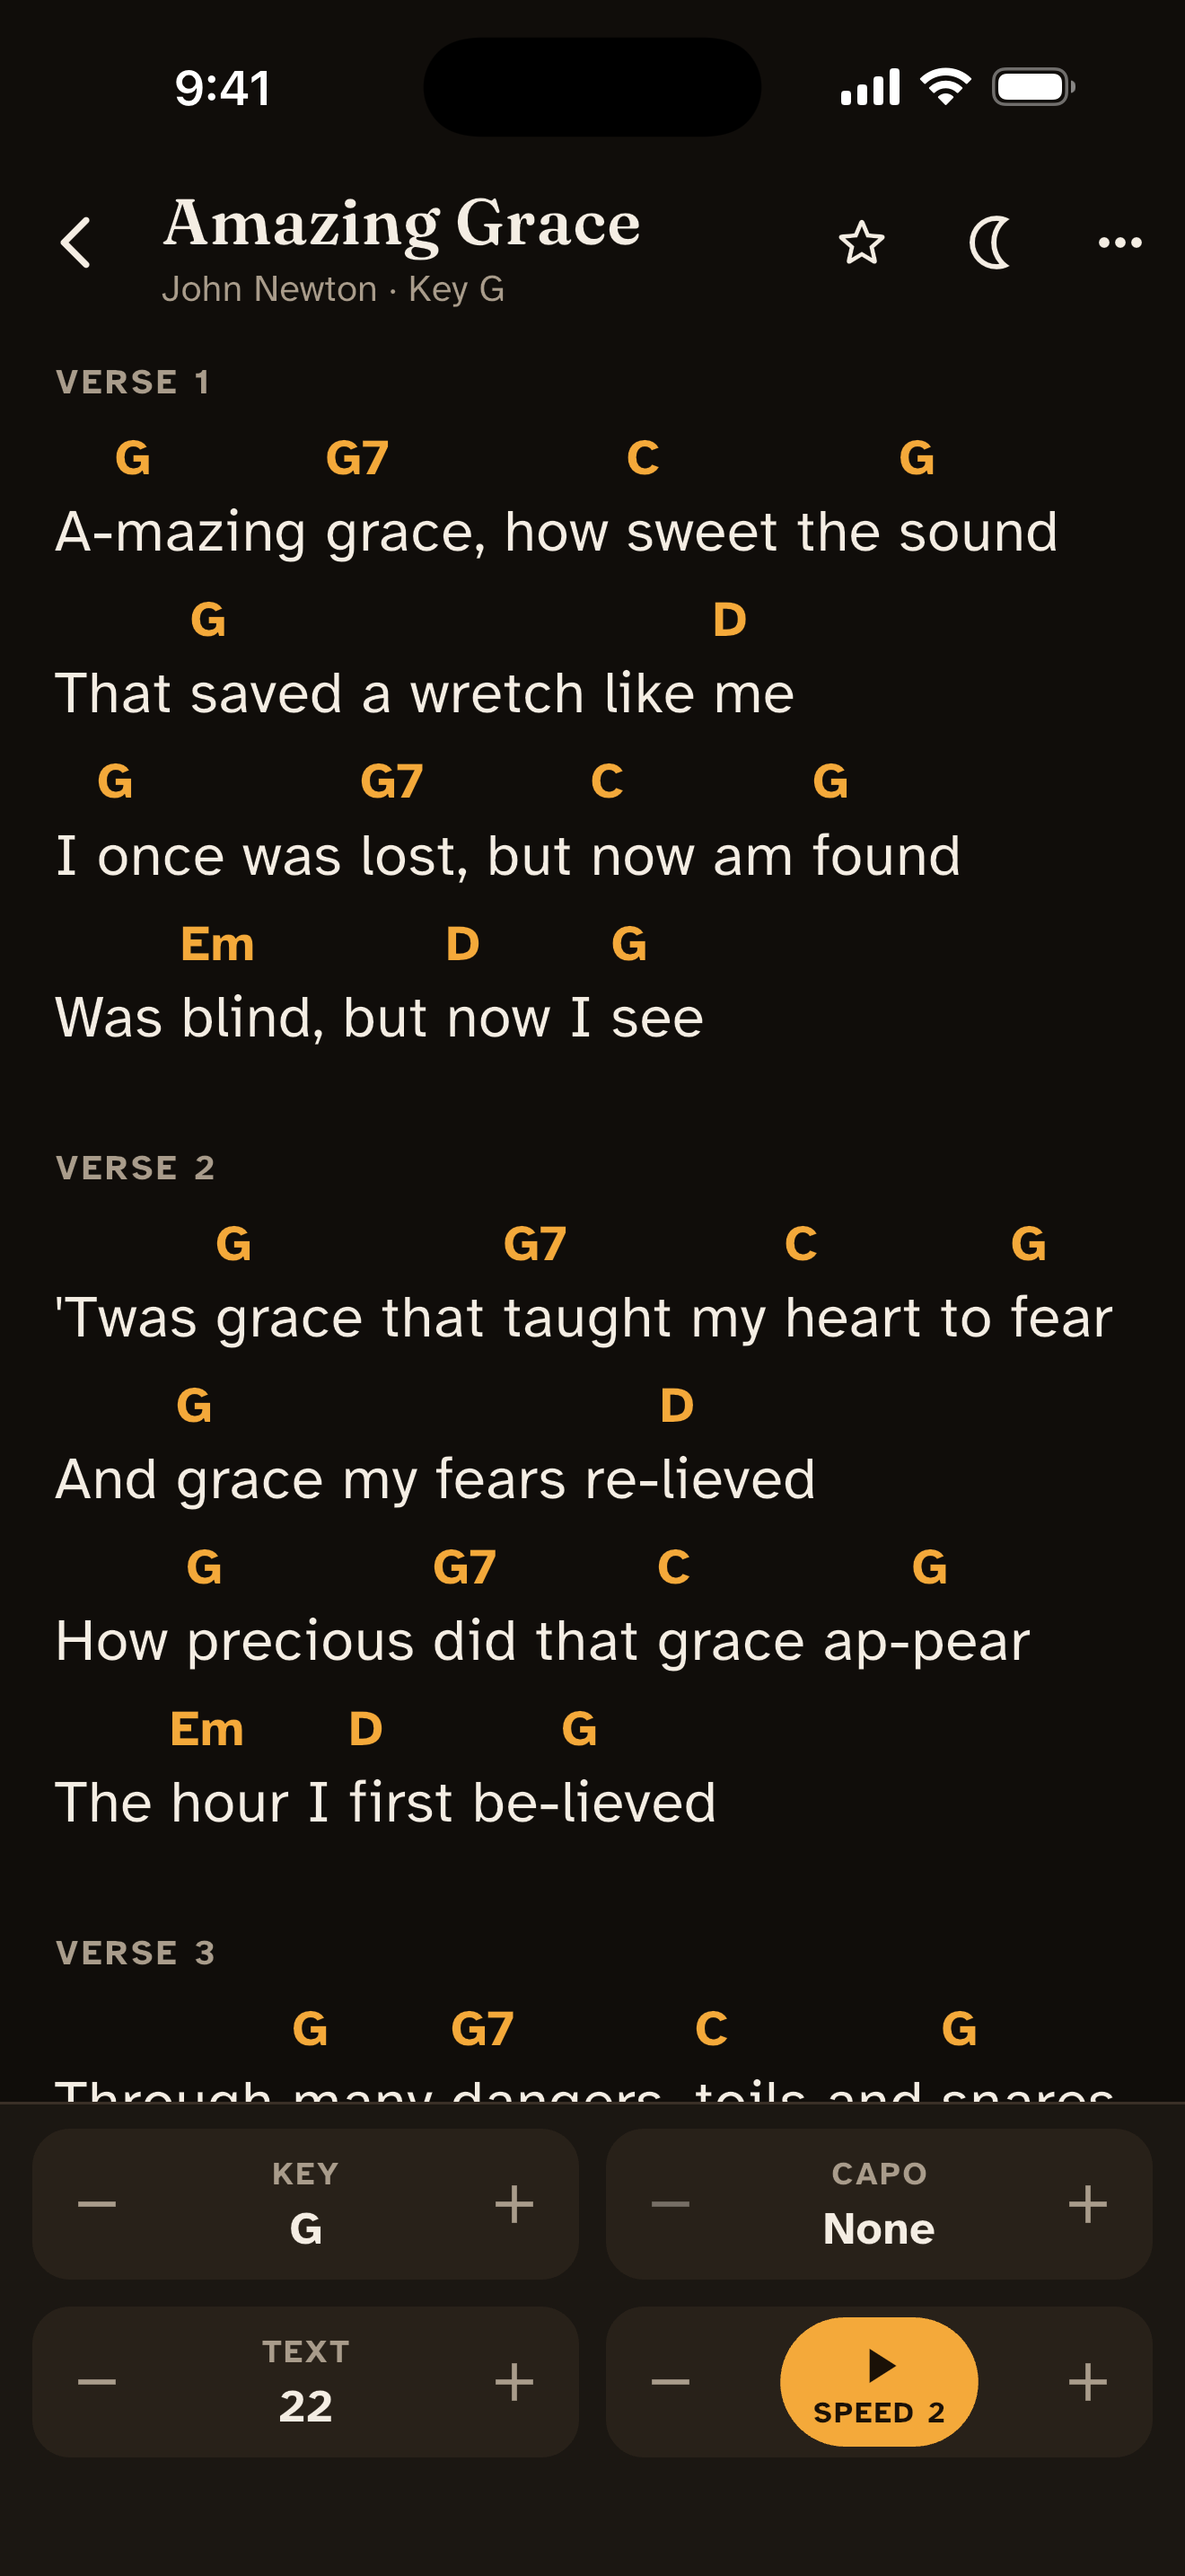
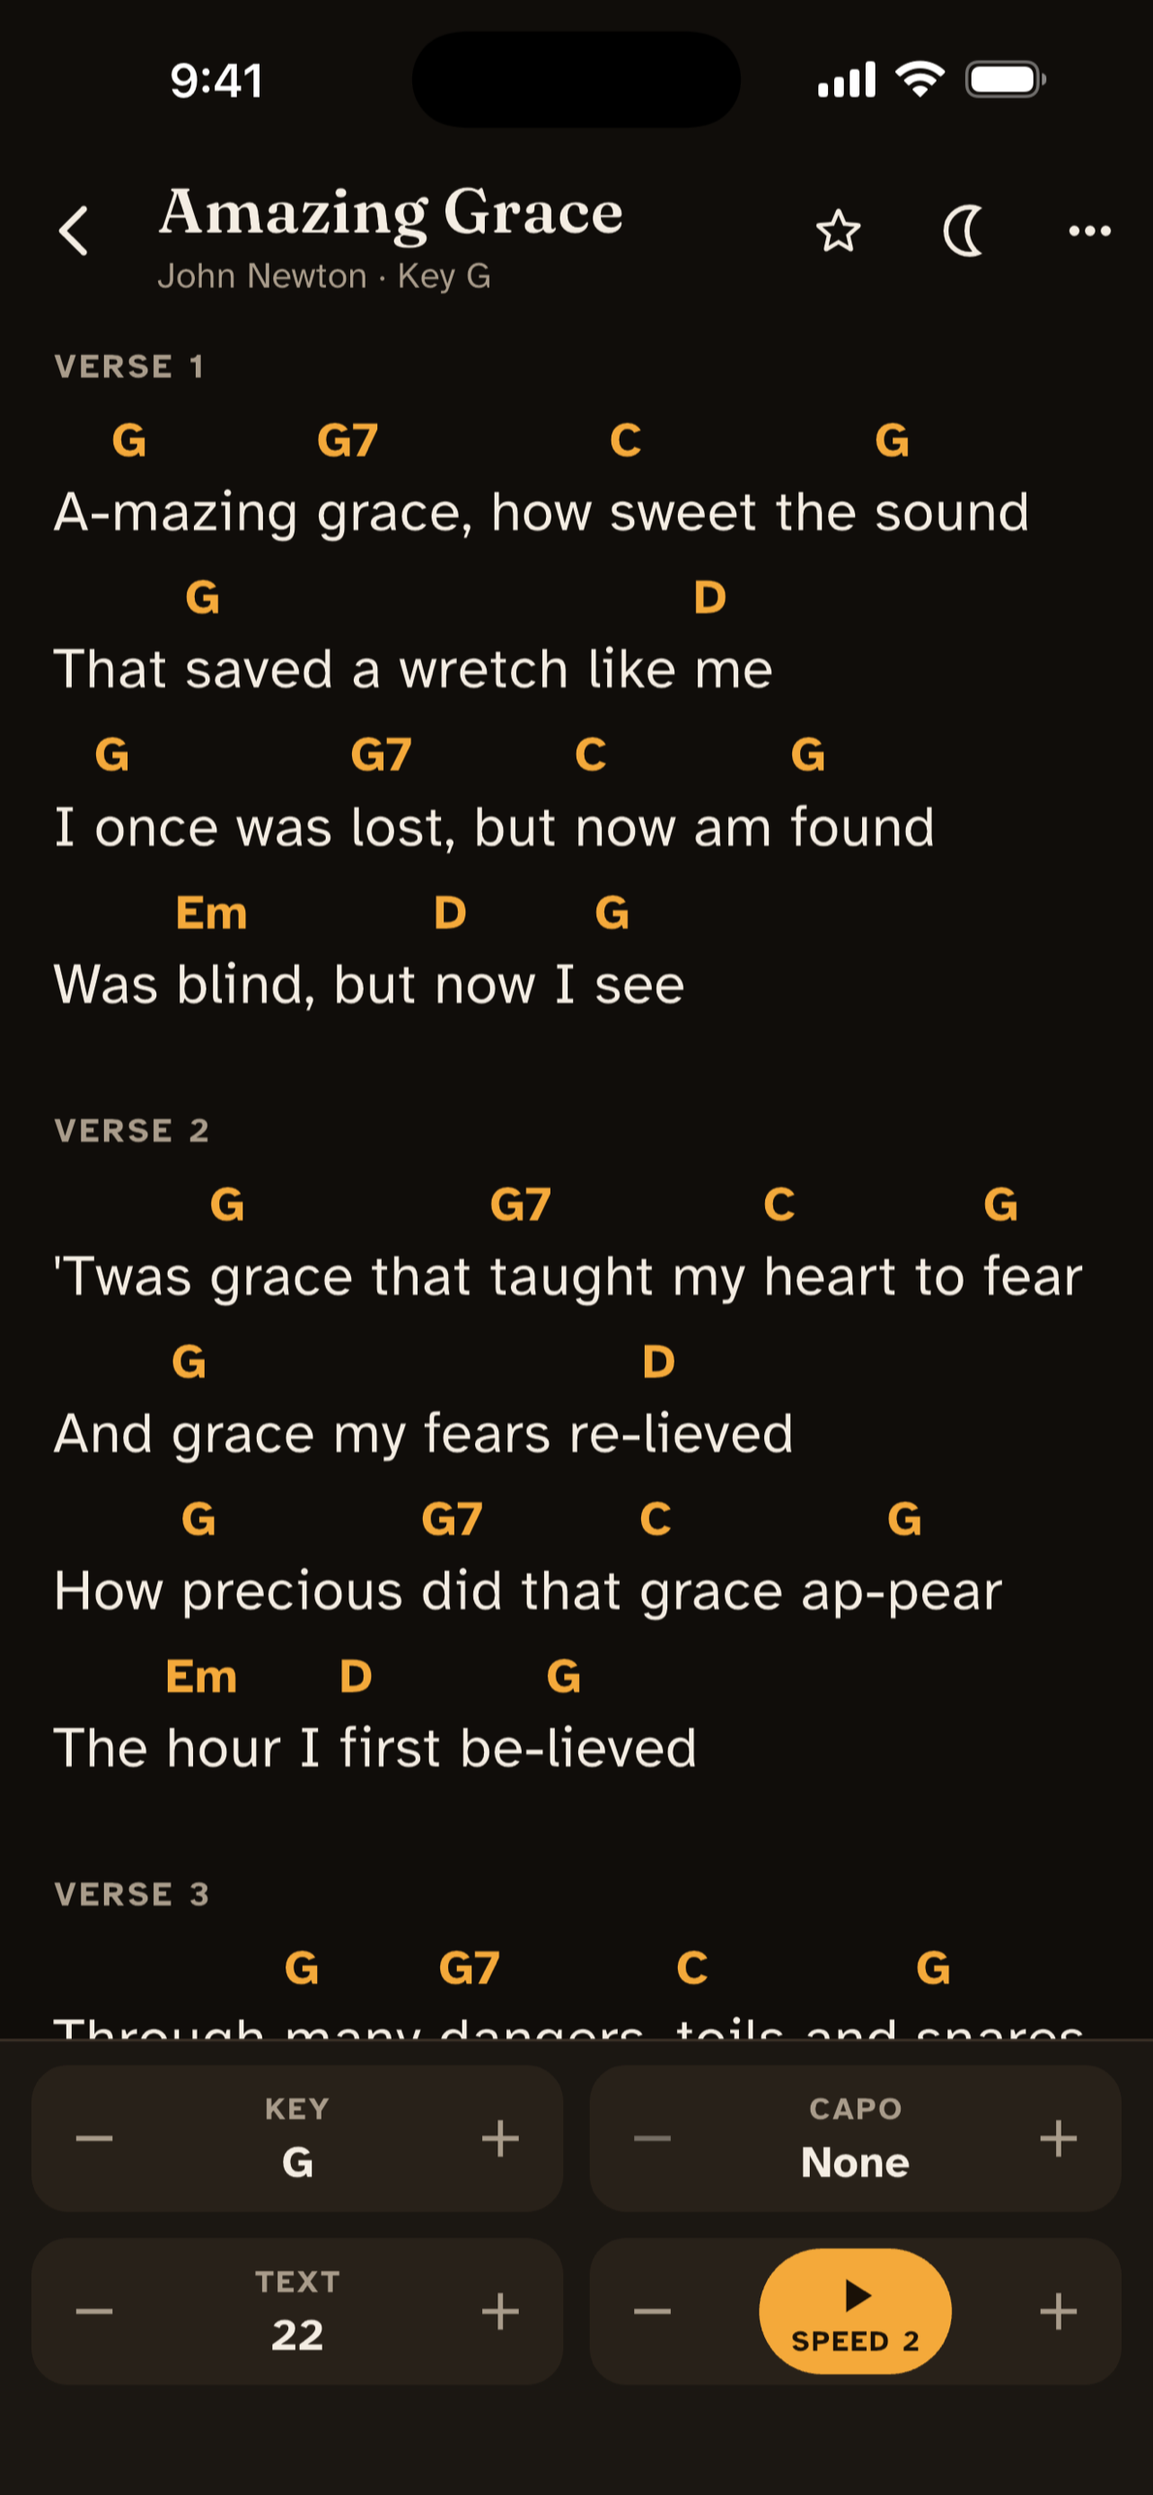
iPhone screenshots at 1284 × 2778, the size App Store Connect asks for
The shots were 1320 × 2868 (6.9"); App Store Connect's iPhone slot
asks for 1242 × 2688 or 1284 × 2778. Scaled to 1284 wide and trimmed
6 px of blank margin top and bottom (the proportions differ by 0.4%).

diff --git a/docs/store/listing.md b/docs/store/listing.md
@@ -150,9 +150,9 @@ round; status bar at 9:41):
 6. `6-tuner.png` — the tuner listening (the ring follows the microphone)
 7. `7-add-song.png` — Add song: Paste, Scan photo, Open file
 
-- **iPhone** 6.9" (App Store), 1320 × 2868: `docs/store/screenshots/`.
+- **iPhone** 6.5" (App Store), 1284 × 2778: `docs/store/screenshots/` (captured on an iPhone 17 Pro Max, scaled to the size App Store Connect asks for).
   Not for Google Play: Play rejects a long side more than twice the short
-  one (2868 / 1320 = 2.17).
+  one (2778 / 1284 = 2.16).
 - **iPad** 13" (required because the app is universal), 2064 × 2752:
   `docs/store/screenshots/ipad/` — songbook, song (La Cucaracha), chord
   diagrams, tuner; the side rail layout.

diff --git a/docs/store/app-review.md b/docs/store/app-review.md
@@ -64,7 +64,7 @@ action, not an in-app social feature.)
 - Copyright: `2026 Bruno Fosados`
 
 **Screenshots**
-- iPhone 6.9" (1320 × 2868): `docs/store/screenshots/*.png` (7)
+- iPhone 6.5" (1284 × 2778, the size App Store Connect asks for): `docs/store/screenshots/*.png` (7)
 - iPad 13" (2064 × 2752): `docs/store/screenshots/ipad/*.png` (4)
 
 ## Notes for the reviewer
